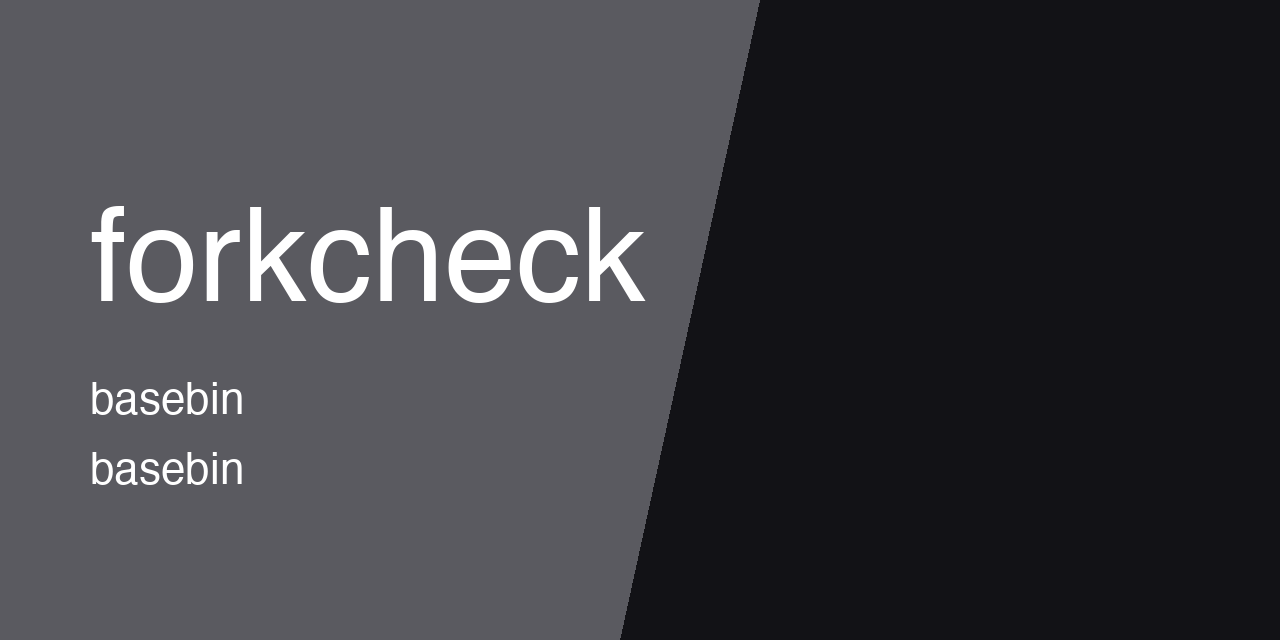
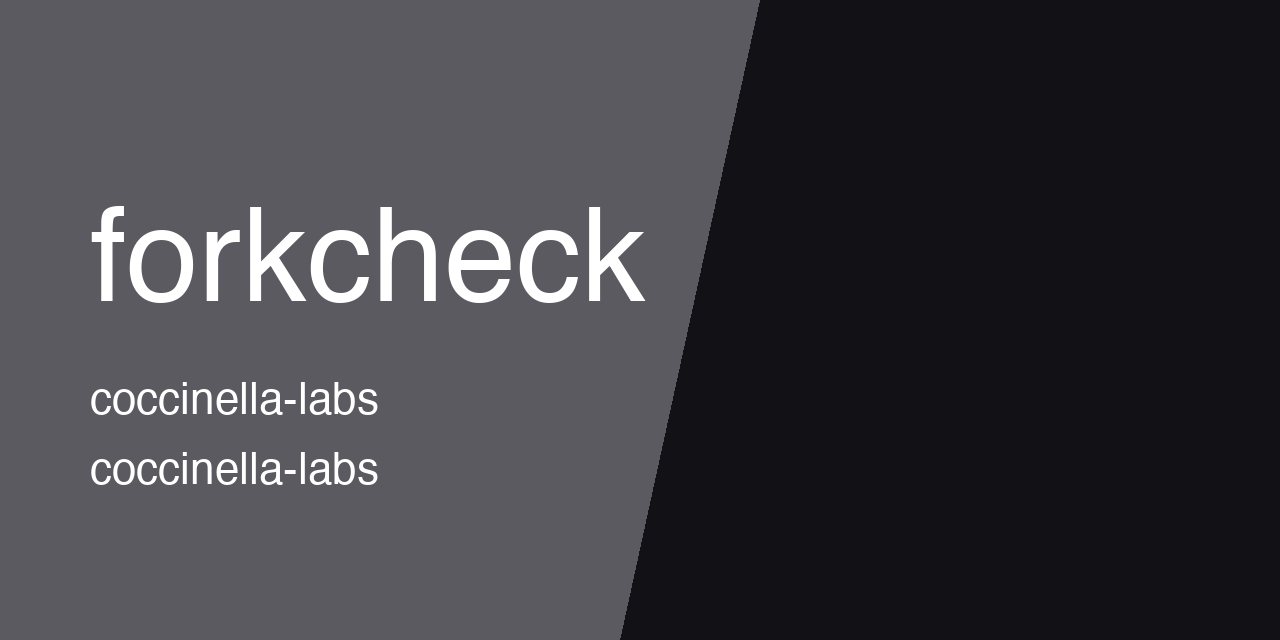
[docs] move thumbnail to coccinella-labs

Changed region(s): [[0.0625, 0.5938, 0.3125, 0.6562], [0.0625, 0.7188, 0.3125, 0.7812]]

diff --git a/README.md b/README.md
@@ -1,5 +1,5 @@
 <p align="center">
-  <img src="https://raw.githubusercontent.com/basebin/forkcheck/main/.github/assets/thumbnail.png" alt="forkcheck" width="100%">
+  <img src="https://raw.githubusercontent.com/Coccinella-Labs/forkcheck/main/.github/assets/thumbnail.png" alt="forkcheck" width="100%">
 </p>
 
 fork testing.
